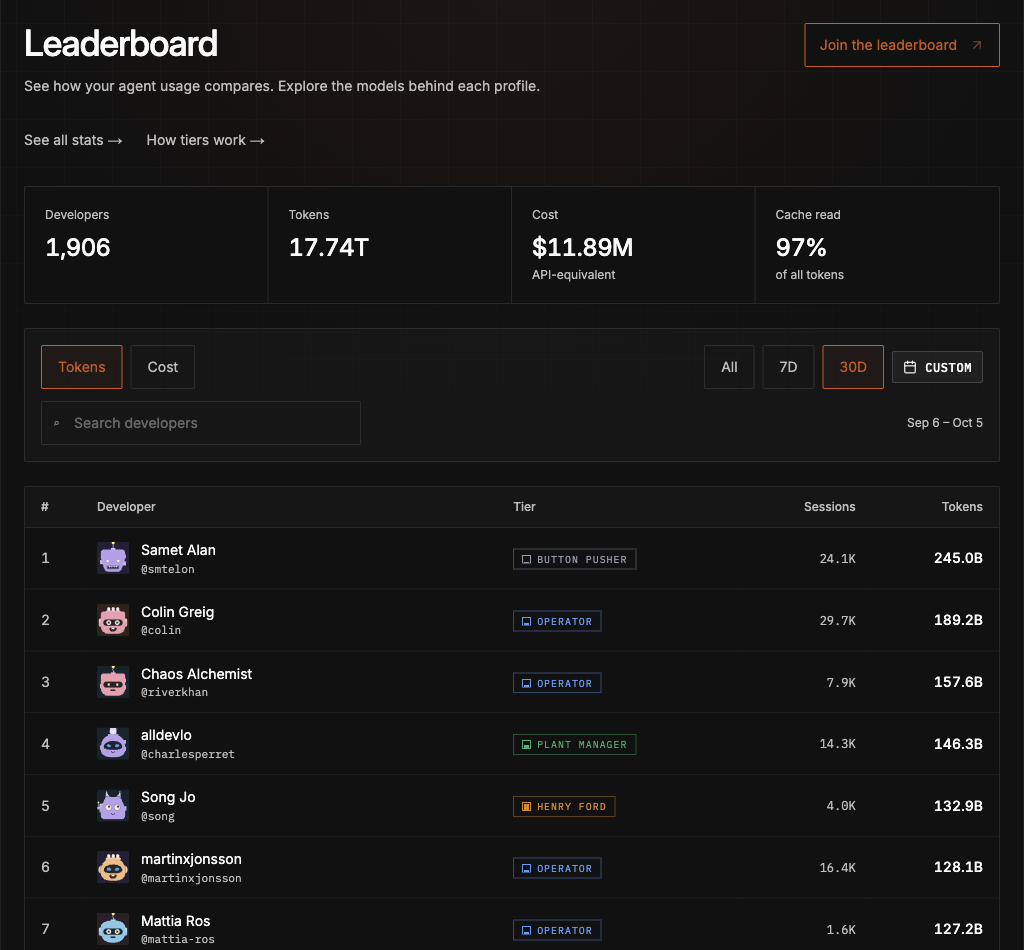
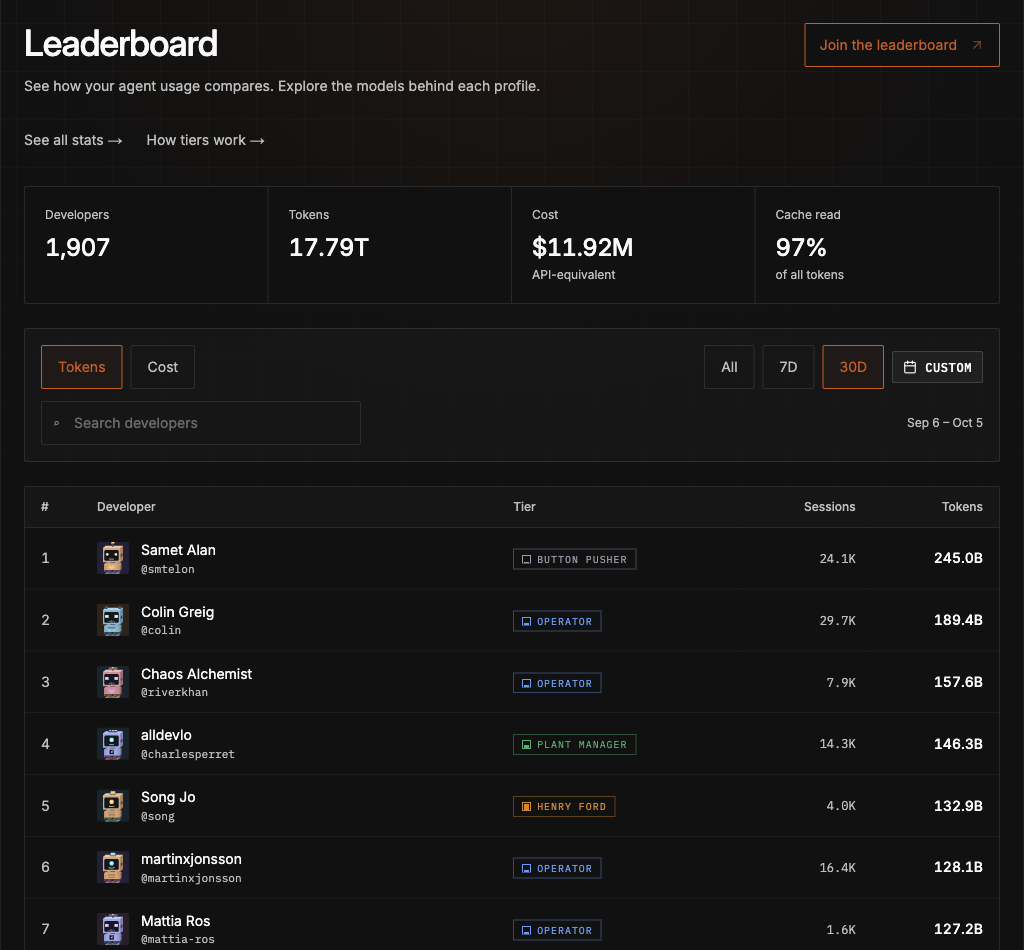
style(marketing): keep voxel robots with playful faces and headpieces

diff --git a/apps/marketing/src/app/[lang]/utils/avatarUrl/avatarUrl.ts b/apps/marketing/src/app/[lang]/utils/avatarUrl/avatarUrl.ts
@@ -1,17 +1,17 @@
-const STYLE = "bottts";
+const STYLE = "voxel-bot";
 
 const PARAMS = [
-	"scale=1.05",
-	"headVariant=round01,round02,square01,square02,square03,square04",
-	"eyesVariant=happy,hearts,eva,round,roundFrame01,roundFrame02,bulging",
-	"mouthVariant=smile01,smile02,bite,square01",
+	"scale=1.15",
+	"eyesVariant=happy,round,square,cyclops",
+	"mouthVariant=smile,line,zigzag",
 	"topProbability=100",
-	"topVariant=antenna,antennaCrooked,bulb01,horns,radar,lights",
-	"sidesProbability=100",
-	"sidesVariant=antenna01,antenna02,round,square,cables01",
-	"textureProbability=0",
+	"topVariant=antenna,dish,fin,lightbar,siren,studs,twin",
+	"chestVariant=vents,screen,heart,dial,slot",
 	"backgroundColor=17232d,232037,172a25,302219,2b1e2a",
-	"baseColor=83c9e8,b7a0ed,89d4af,f4ba80,ee9cb0,f1d77e",
+	"bodyColor=7db9d8,c089e8,7bc9a8,e2a36f,d88b9c,9ea6ef",
+	"accentColor=3a546b,614c7a,3c685a,815b3c,724756",
+	"screenColor=111821",
+	"glowColor=7ee7e0,ffcb6b,b5ed83,e7a5ef",
 ].join("&");
 
 export function avatarUrl(handle: string): string {
